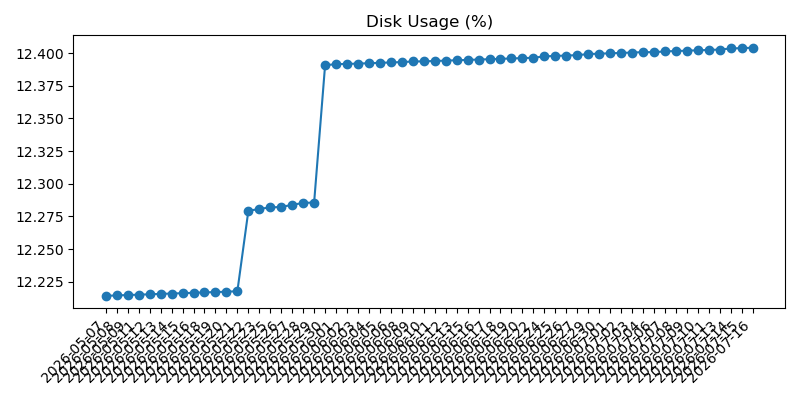
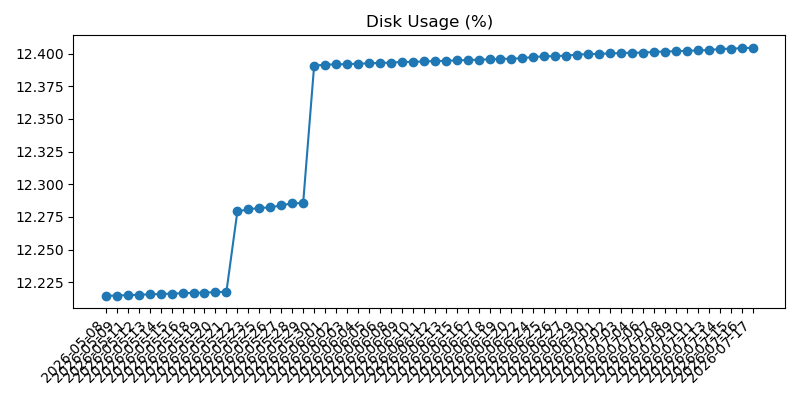
Add daily system and weather report

diff --git a/2026-07.md b/2026-07.md
@@ -476,3 +476,37 @@
 - Overall: Good
 - Warning: None
 
+## 2026-07-17 10:09:28
+
+### Machine
+- Uptime: up 3 days, 22 hours, 53 minutes
+- CPU load (1m, 5m, 15m): 0.03, 0.01, 0.00
+- RAM used: 165 MB / 921 MB (17.9%)
+- Disk used (/): 3.6 GB / 28.8 GB (12.4%)
+- Free disk space (/): 24.0 GB
+- CPU temp: 45.1°C
+- Voltage / throttling: OK
+
+### Reachability
+- Internet check (1.1.1.1): Reachable (3.6 ms)
+
+### Weather
+- Madrid:
+  - Condition: Despejado
+  - Max temp: 34°C
+  - Min temp: 20°C
+  - Feels like: 27°C
+  - Chance of rain: 0%
+  - Warnings: None reported
+- Barcelona:
+  - Condition: Poco nuboso
+  - Max temp: 31°C
+  - Min temp: 26°C
+  - Feels like: 30°C
+  - Chance of rain: 5%
+  - Warnings: None reported
+
+### Health
+- Overall: Good
+- Warning: None
+